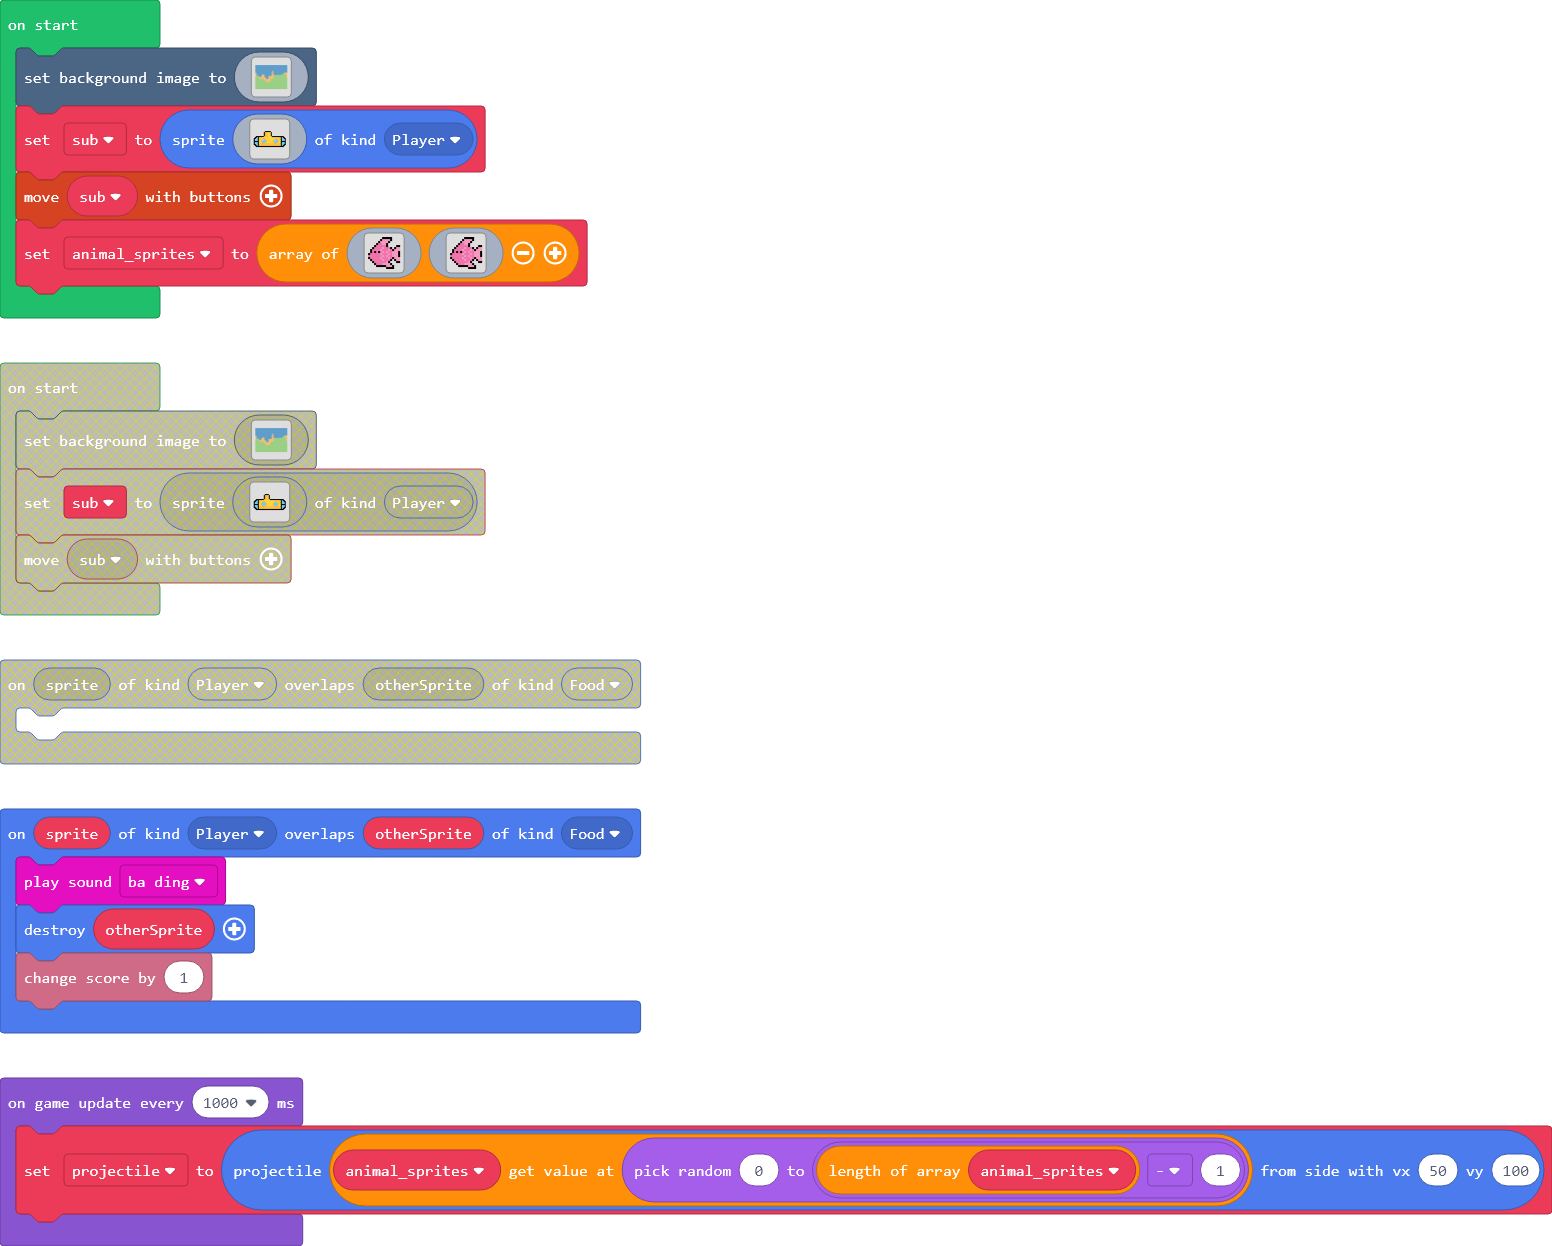
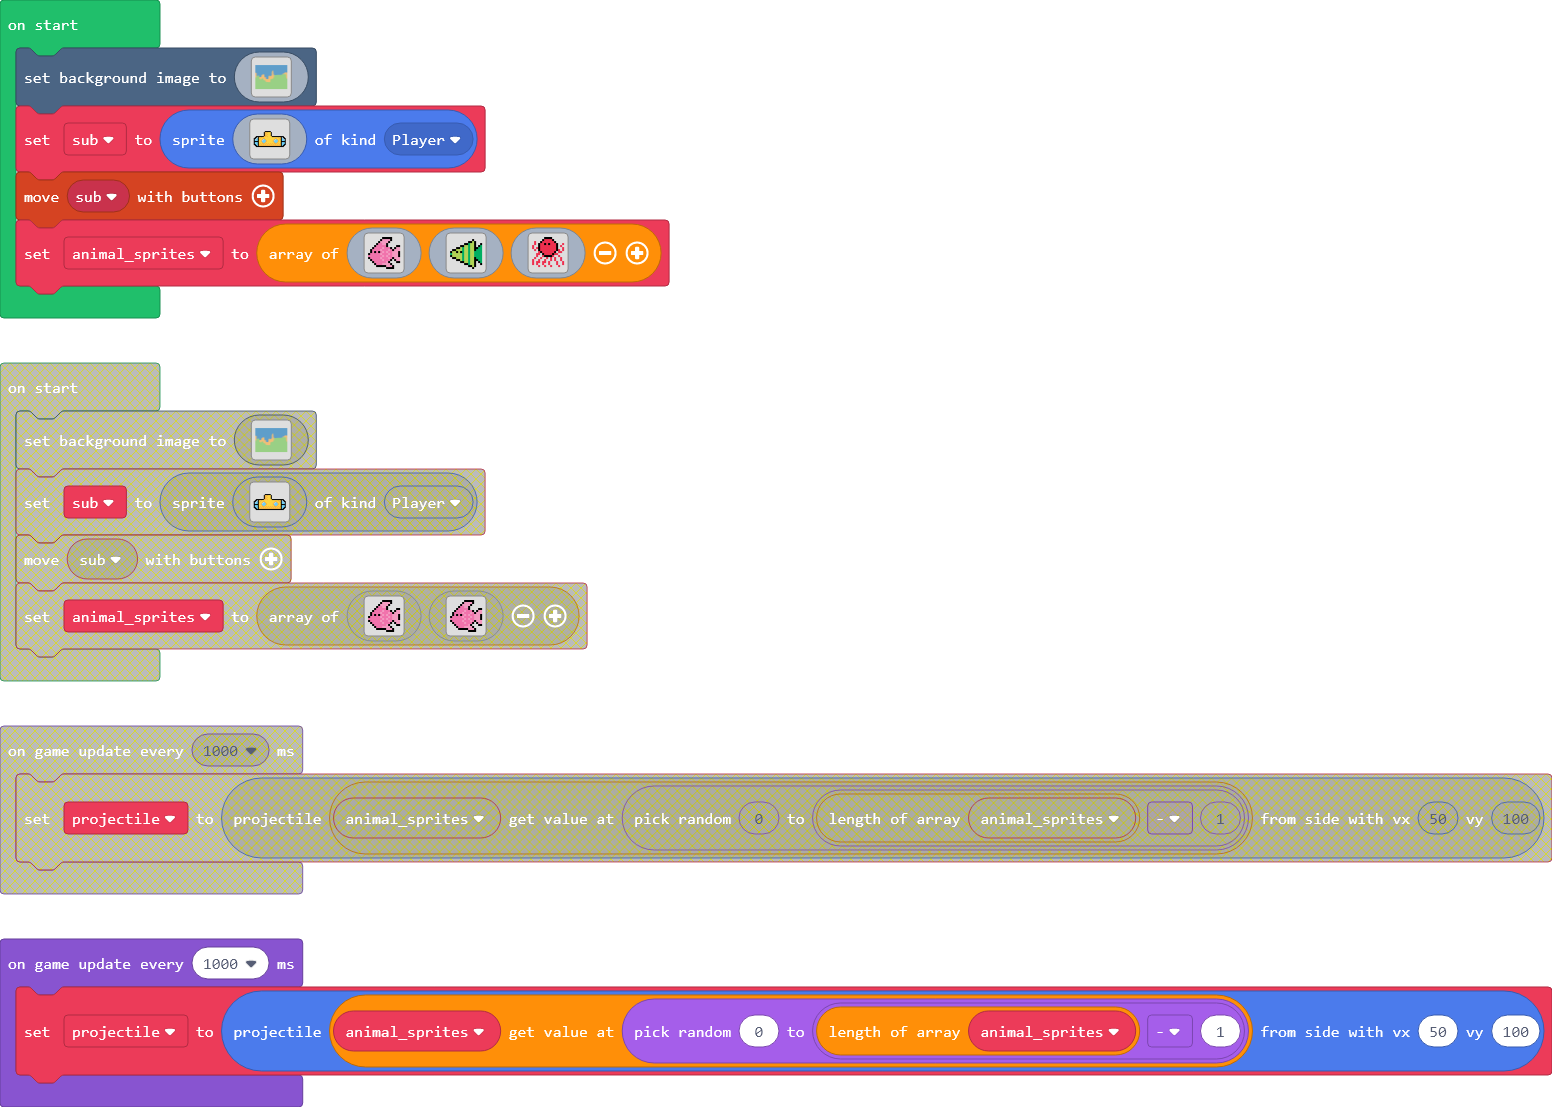
Added octopus image

Changed region(s): [[0.0, 0.645, 1.0, 0.9828], [0.0, 0.0, 0.433, 0.6143]]

diff --git a/main.ts b/main.ts
@@ -203,22 +203,39 @@ f 1 1 1 1 1 2 1 1 1 2 1 f 2 2 2
 . . . . f f f f f 2 2 2 f . . . 
 . . . . . . . . . f f f f . . . 
 `, img`
-. . . . . . . f f f f f . . . . 
-. . . . . . f 2 2 2 2 f . . . . 
-. . . . . f 2 2 2 2 f . . . . . 
-. . . . f 1 1 2 2 f . . . . . . 
-. . . f 1 1 1 1 1 f . . . . f f 
-. . f 1 1 1 1 2 1 1 1 f . f 2 2 
-. f 1 1 1 1 2 1 1 1 2 1 f 2 2 2 
-. f 1 f 1 f 1 2 1 2 1 1 2 2 2 f 
-f 1 1 1 1 1 2 1 1 1 2 1 2 2 2 f 
-1 1 1 1 1 1 1 2 1 2 1 1 2 2 2 f 
-f 1 1 1 1 1 2 1 1 1 2 1 f 2 2 2 
-. f 1 1 1 1 1 2 1 1 1 f . f 2 2 
-. . f 1 1 1 1 1 1 2 f . . . f f 
-. . . f 1 1 1 2 2 2 2 f . . . . 
-. . . . f f f f f 2 2 2 f . . . 
-. . . . . . . . . f f f f . . . 
+. . . . . . . . . . . . . . . . 
+. . . . . . . . . . . f . . . . 
+. . . . . . . . . f f 8 f . . . 
+. . . . . . . f f 9 8 8 f . . f 
+. . . . . f f 8 8 9 8 8 f . f 9 
+. . . f f 8 9 8 8 9 8 8 f f 9 9 
+. f f 8 8 8 9 8 8 9 8 8 f 9 9 9 
+f 8 8 f 8 f 9 8 8 9 8 8 9 9 9 9 
+9 8 8 8 8 8 9 8 8 9 8 8 9 9 9 9 
+f 8 8 8 8 8 9 8 8 9 8 8 9 9 9 9 
+. f f 8 8 8 9 8 8 9 8 8 f 9 9 9 
+. . . f f 8 9 8 8 9 8 8 f f 9 9 
+. . . . . f f 8 8 9 8 8 f . f 9 
+. . . . . . . f f 9 8 8 f . . f 
+. . . . . . . . . f f 8 f . . . 
+. . . . . . . . . . . f . . . . 
+`, img`
+. . . . . . f f f f . . . . . . 
+. . . . . f 4 4 4 4 f . . . . . 
+. 4 . . f 4 4 4 4 4 4 f . . . . 
+. 4 . f 4 4 f 4 f 4 4 4 f . . 4 
+4 . . f 4 4 4 4 4 4 4 4 f . 4 . 
+4 . 4 f 4 4 4 4 4 4 4 4 f . . 4 
+. 4 . f 4 4 4 4 4 4 4 4 f 4 . 4 
+. . . 4 f 4 4 4 4 4 4 f . 4 4 . 
+. . 4 4 . f 4 4 4 4 f 4 4 . . . 
+. . 4 . . 4 f f f f 4 . . 4 . . 
+. 4 . . 4 . . 4 . 4 . 4 . . 4 . 
+4 . . 4 . . 4 . . 4 . 4 . . 4 . 
+4 . 4 4 . 4 4 . 4 . . . 4 . . 4 
+4 . 4 . . 4 . . 4 . . . 4 . . 4 
+. . . 4 . . 4 . . 4 . . . 4 . . 
+. . . . . . . . . . . . . . . . 
 `]
 game.onUpdateInterval(1000, function () {
     projectile = sprites.createProjectileFromSide(animal_sprites[Math.randomRange(0, animal_sprites.length - 1)], 50, 100)
